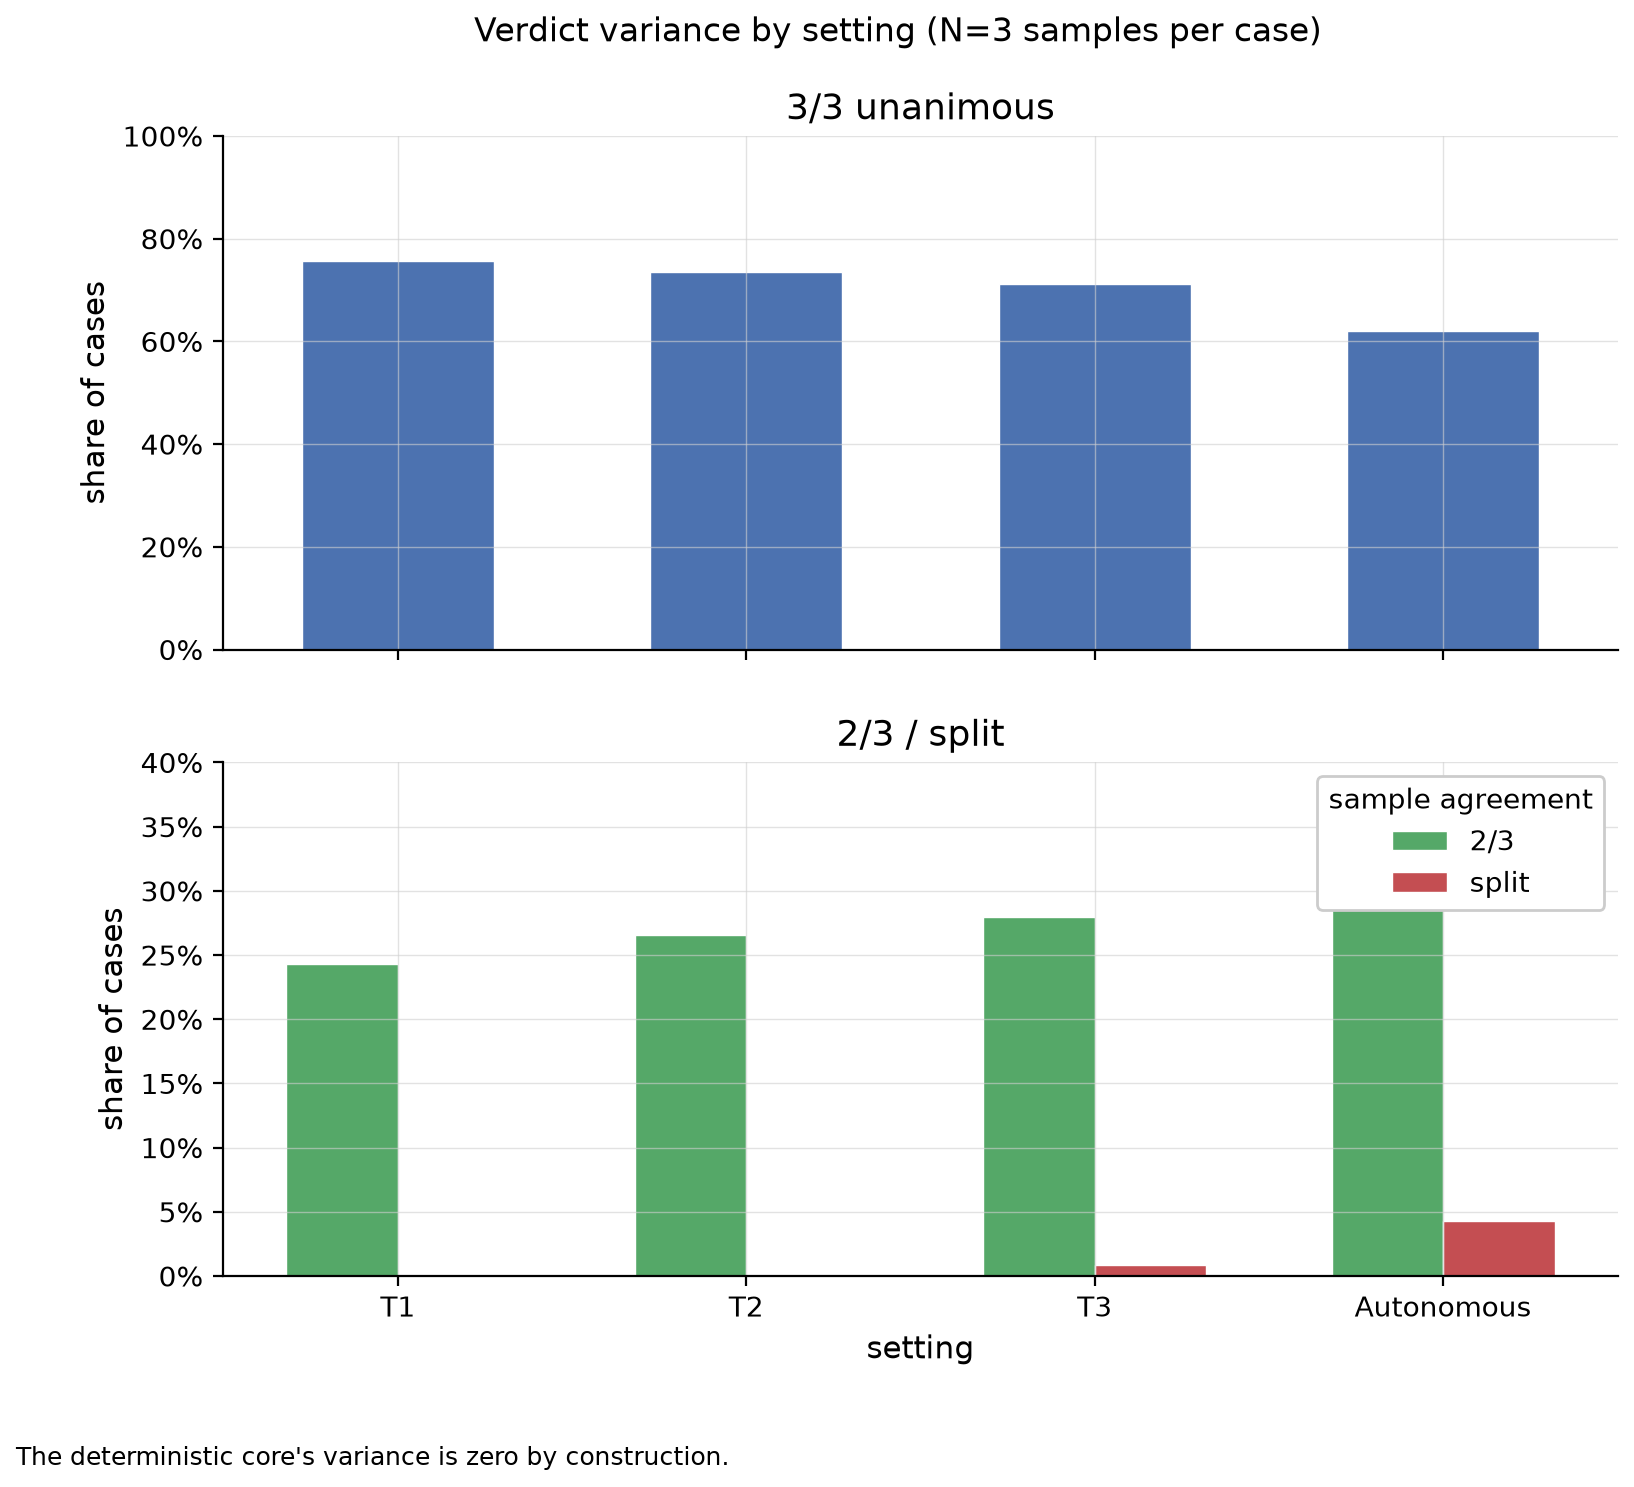
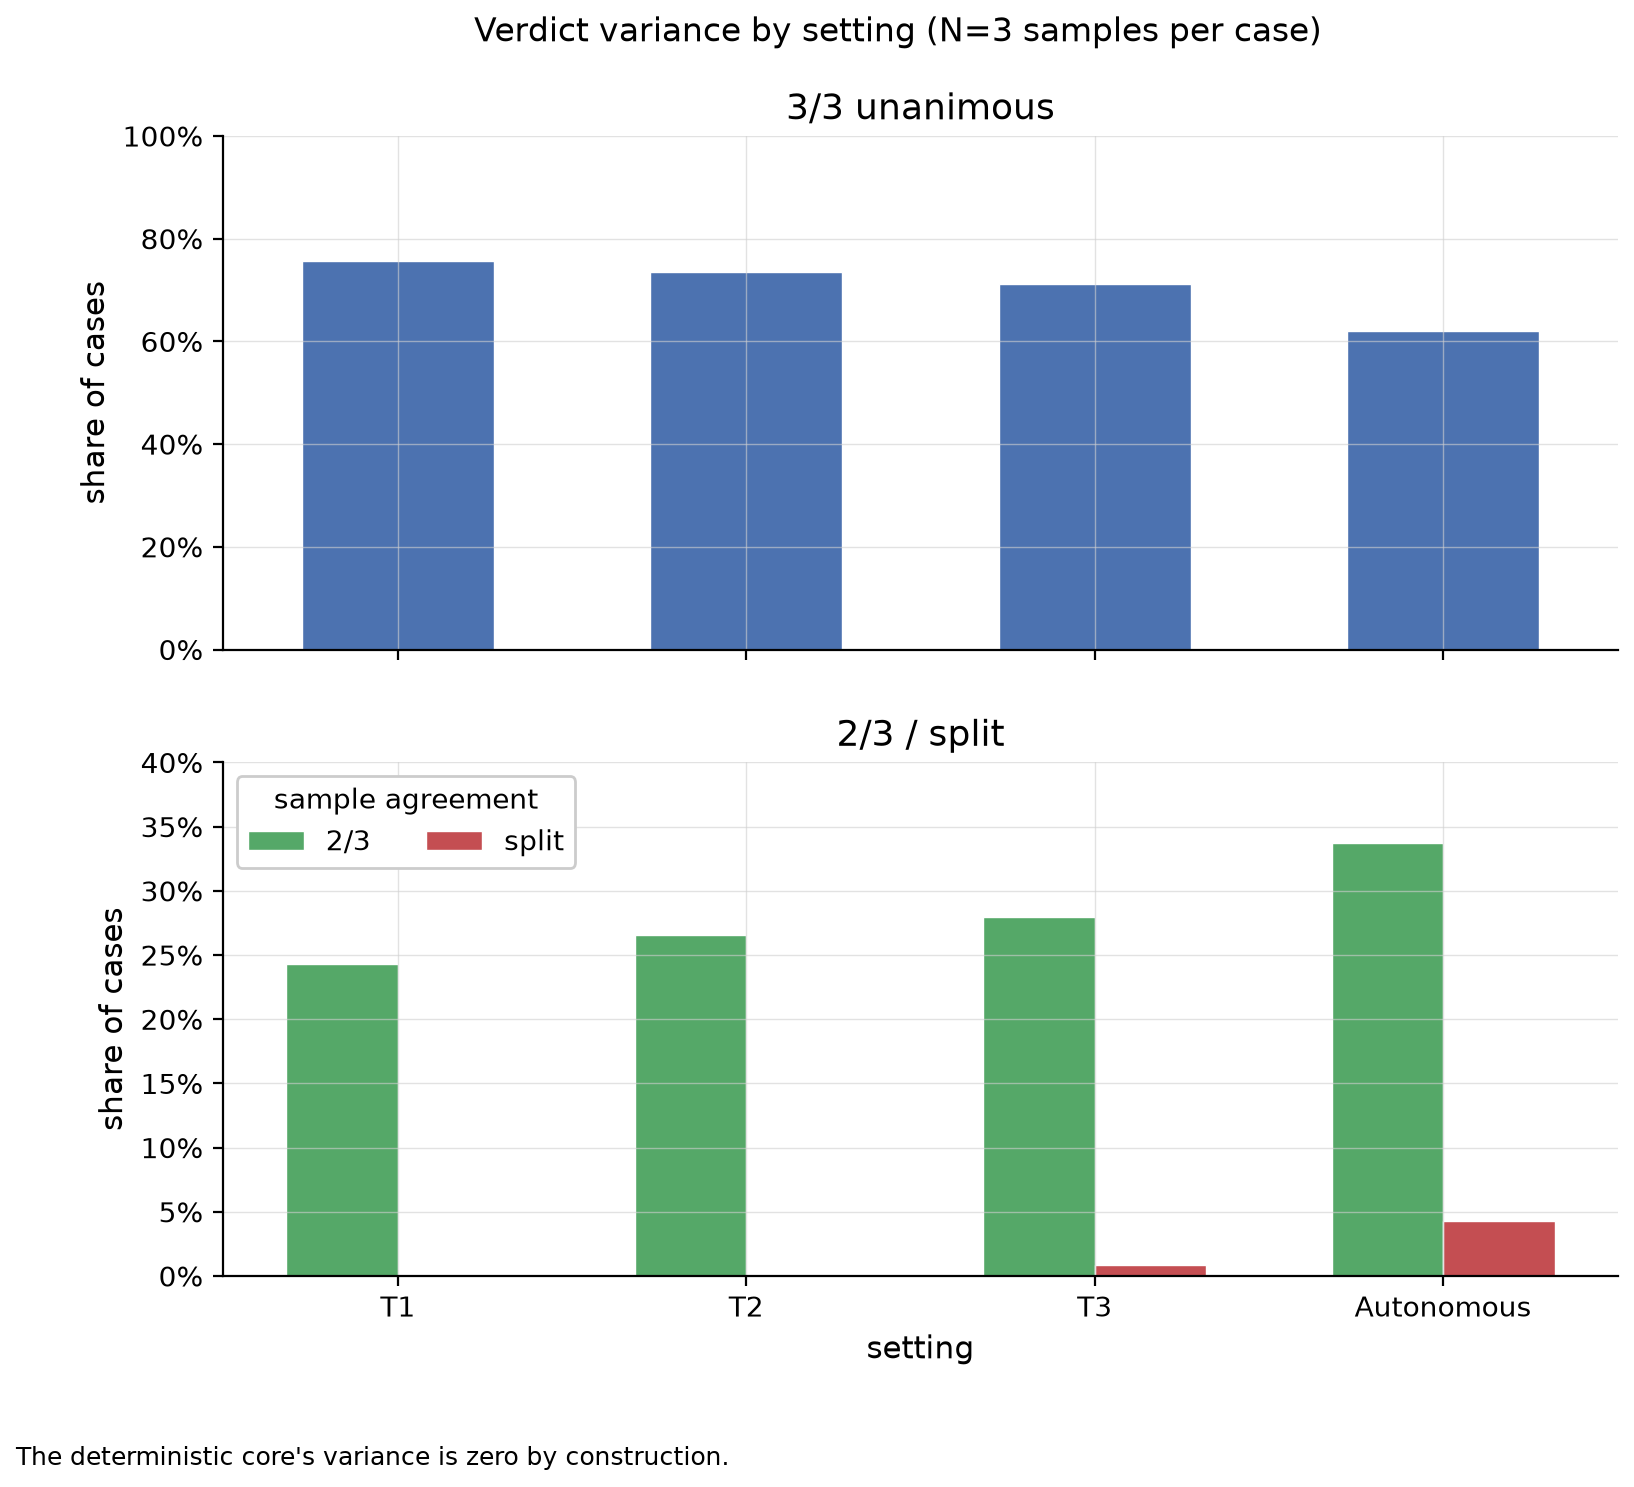
Move the variance legend off the autonomous bar.
The bottom panel's legend sat upper right, over the autonomous 2/3 bar (33.7% on a
40% axis). It now sits upper left in one row, where the tallest bar is 24.3%.
Only verdict_variance_by_tier.png changes; the other adjudication figures
regenerate byte-identically.

Changed region(s): [[0.8115, 0.5259, 0.9988, 0.6187], [0.1248, 0.5259, 0.3433, 0.5878]]

diff --git a/report/figures/charts.py b/report/figures/charts.py
@@ -405,7 +405,14 @@ def render_verdict_variance_by_tier(
     ax_bottom.set_yticks(rate_axis_ticks(limit, step=0.05))
     ax_bottom.yaxis.set_major_formatter(PercentFormatter(xmax=1.0, decimals=0))
     if plotted:
-        ax_bottom.legend(title="sample agreement", loc="upper right", frameon=True, framealpha=1.0)
+        # Upper left, one row: the tallest unstable bar is on the right (autonomous 2/3).
+        ax_bottom.legend(
+            title="sample agreement",
+            loc="upper left",
+            ncol=len(plotted),
+            frameon=True,
+            framealpha=1.0,
+        )
 
     fig.suptitle(f"Verdict variance by setting (N={sample_count} samples per case)")
     fig.subplots_adjust(bottom=0.14, top=0.90)
